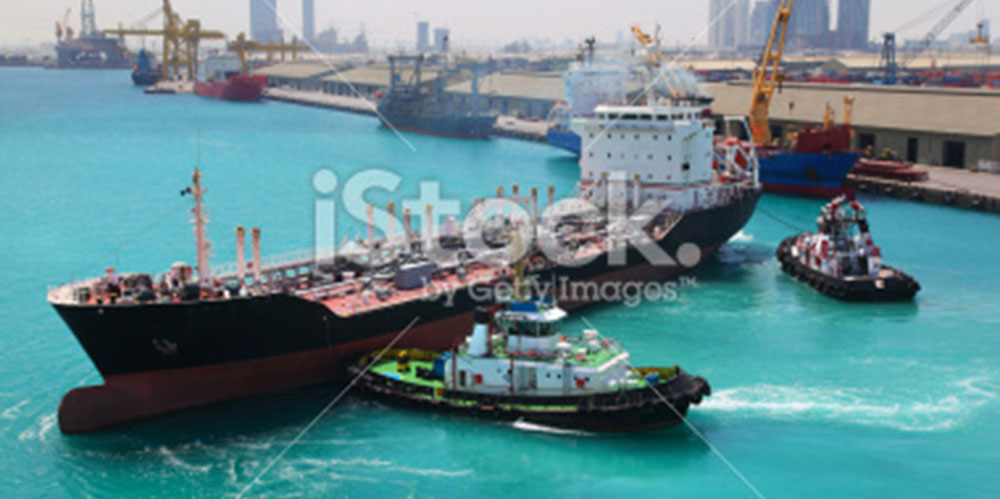
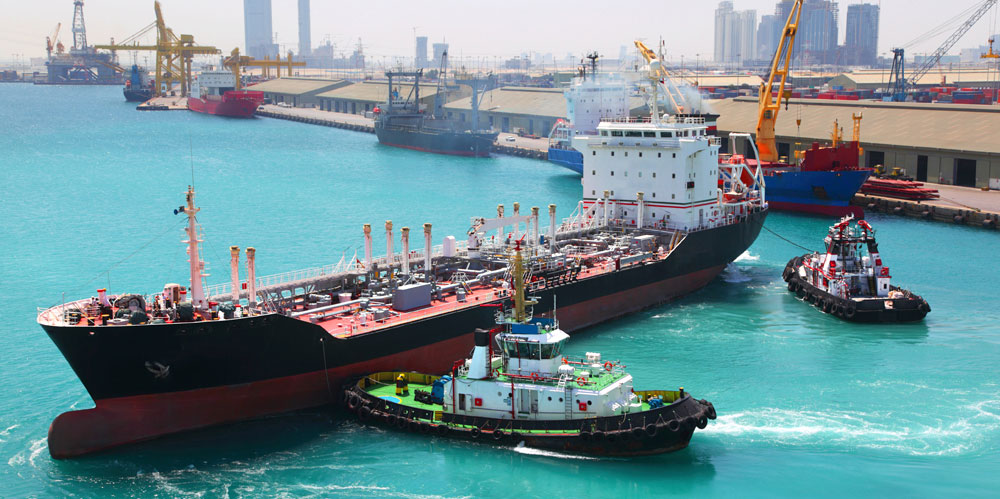
Squashed commit of the following:
commit 7bea20bcc798d0a748f037c7b2e5f5c864eb7a2b
Author: dvdrtrgn <dvdrtrgn@gmail.com>
Date:   Tue Sep 16 13:50:29 2014 -0500

    tweak for Safari 7

commit 1820c66f8c4f996072d73e7f57fe24dc99d1a6b5
Author: dvdrtrgn <dvdrtrgn@gmail.com>
Date:   Tue Sep 16 13:43:21 2014 -0500

    make sheryl tweak

commit 42f55a534e1e9a027eef86aafa3bcfe297c7d3ea
Author: dvdrtrgn <dvdrtrgn@gmail.com>
Date:   Tue Sep 16 13:38:30 2014 -0500

    new slides

commit 43d414bd5b4d1f53dad4f7d1251c72cbd483c7de
Author: dvdrtrgn <dvdrtrgn@gmail.com>
Date:   Fri Sep 5 09:47:46 2014 -0500

    make sheryl tweak

commit 6e2f739b4ec896237ba8165fc00d08fe2ecfb2b9
Author: dvdrtrgn <dvdrtrgn@gmail.com>
Date:   Fri Sep 5 09:39:41 2014 -0500

    add mfal root

commit 9df732eb9a575372d737061056660625003410d1
Author: dvdrtrgn <dvdrtrgn@gmail.com>
Date:   Wed Sep 3 10:03:34 2014 -0500

    make proofer tweak

diff --git a/app/_parts.html b/app/_parts.html
@@ -58,7 +58,7 @@
                         <div class="iS-port">
 
                             <div class="iS-view">
-                                <img src="./images/bkgr/slide-1.jpg">
+                                <img src="./images/banners/any/15147355.jpg">
                                 <img src="./images/banners/any/158926944-captain-steering-tugboat.jpg">
                                 <img class="any" src="./images/banners/any/20025521-boats-in-storage.jpg">
                                 <img class="any" src="./images/banners/any/20281527-container-ship-at-port.jpg">
@@ -101,7 +101,7 @@
 
             <nav class="sub-bot">
                 <a href="https://www.agencyresources.com/copyright.html">Copyright</a>
-                <a href="https://www.agencyresources.com/copyright.html">Privacy Security &amp; Legal</a>
+                <a href="https://wfis.wellsfargo.com/siteusage/Pages/privacypolicy.aspx">Privacy Security &amp; Legal</a>
                 <a href="https://www.agencyresources.com/copyright.html">Terms of Use</a>
                 <a href="https://www.agencyresources.com/sitemap.html">Sitemap</a>
                 <span class="disc">© 2014 Wells Fargo Insurance Services USA, Inc. All rights reserved. ECG-1198972</span>

diff --git a/app/guide.html b/app/guide.html
@@ -42,11 +42,6 @@
                         <aside>
                             <h4>Submission Guidelines</h4>
                             <ul>
-                                <li>Working with a team of long-term professionals focused solely on the specialty marine business</li>
-                                <li>A stable organization where you’ll build personal relationships with your contacts for ease of doing business now and in the future</li>
-                                <li>24/7 service from your Harbor Risk contacts including mobile phone access – we know the marine industry is not a 9-to-5 business</li>
-                                <li>The willingness to educate you about marine insurance products so you can deliver more for your clients</li>
-                                <li>A strong reputation in the marine industry … just ask for our references</li>
                                 <li>ACORD</li>
                                 <li>Supplemental</li>
                             </ul>

diff --git a/app/glossary.html b/app/glossary.html
@@ -86,7 +86,7 @@
 
                             <h5 class="dropdown">Bumbershoot </h5>
                             <div>
-                                <p> Much like an umbrella policy, except it also covers over the Marina Owners Legal Liability (MOLL) exposure, as well,
+                                <p> Much like an umbrella policy, except it also covers over the Marina Owners’ Legal Liability (MOLL) exposure, as well,
                                     and is actually designed for usage over marine exposures. </p>
                             </div>
 

diff --git a/app/_root.js b/app/_root.js
@@ -13,6 +13,11 @@ W.ROOT = ({
             nom: 'wfmedia',
             sub: '/harbor-risk',
         },
+        'ecg.hosting.wellsfargo.com': {
+            nom: 'mfal',
+            lib: '/mfal/lib',
+            sub: '/mfal/harbor',
+        },
         '10.89.101.100': {
             nom: 'qla2',
             sub: '/wf-ecg/harbor',

diff --git a/scss/harbor/_head.scss b/scss/harbor/_head.scss
@@ -60,6 +60,7 @@
             position: relative;
             text-align: right;
             text-decoration: none;
+            white-space: nowrap;
 
             &:hover { color: $blu; }
             &.active:before, &:hover:before { color: $blu; }
